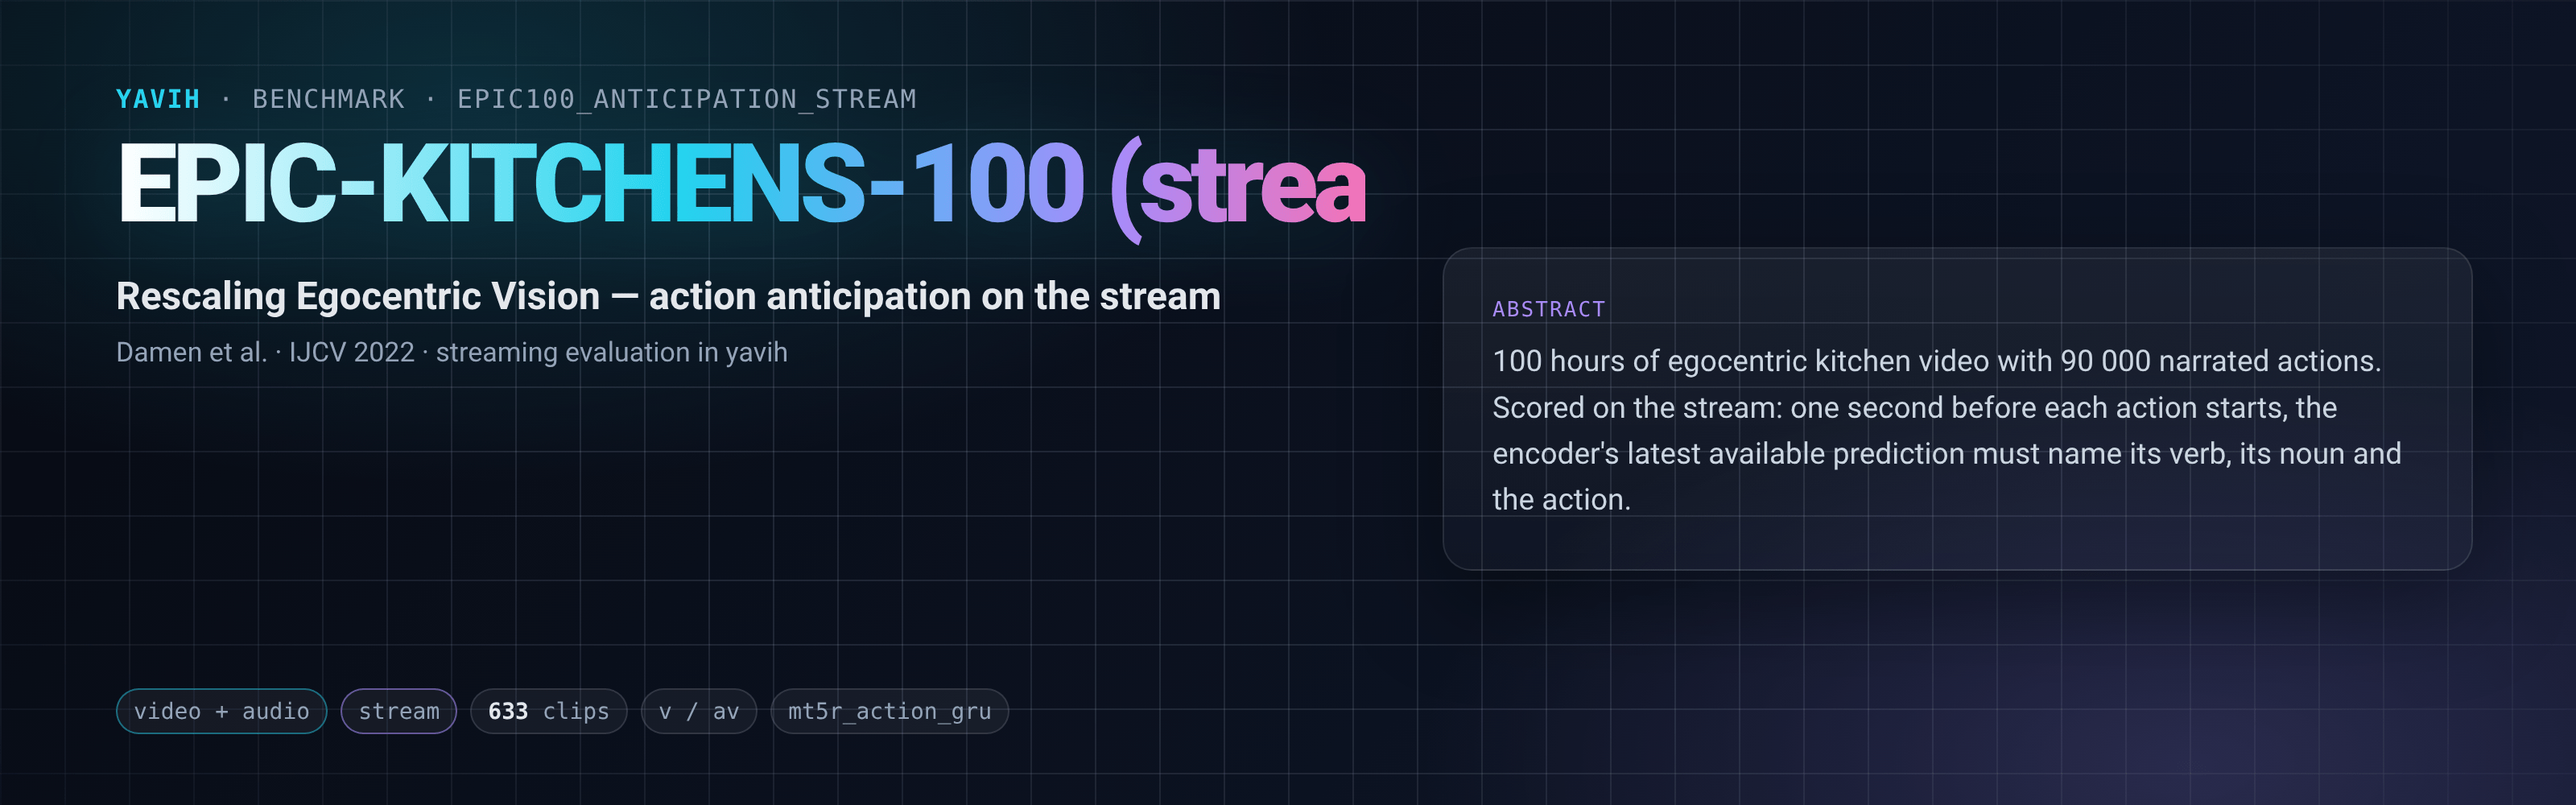
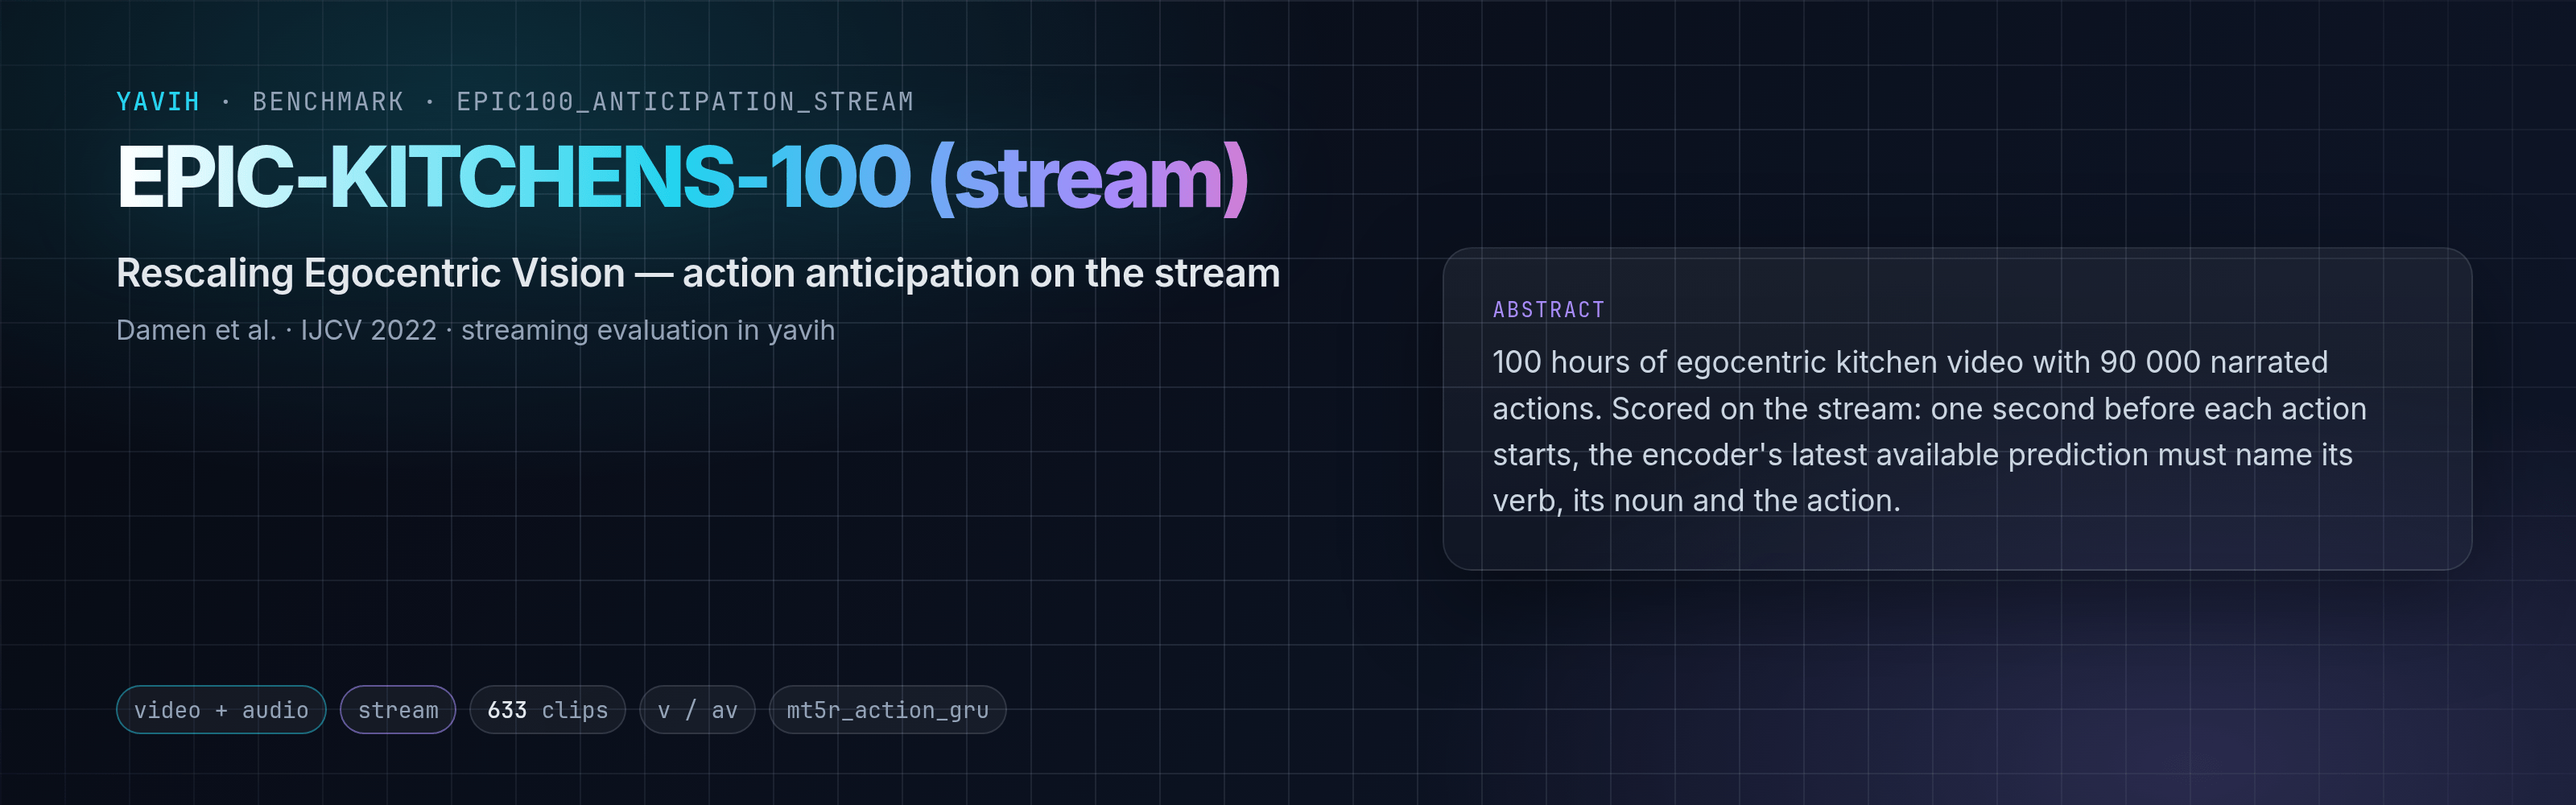
Headers re-rendered with the design system (bundled Inter and JetBrains Mono)
Every folder header and the repository header, rendered once with the design package; a name over 20 characters steps
down to 60 / 52 px so the wider bundled Inter does not clip it (Something-Something v2, EPIC-KITCHENS-100 (stream)).

diff --git a/src/yavih/headers.py b/src/yavih/headers.py
@@ -152,7 +152,7 @@ def header_html(bench) -> str:
         page_css=design.page_css(WIDTH, HEIGHT),
         bench=html.escape(bench.name),
         name=html.escape(h.name),
-        name_px=_size(h.name, ((8, "110px"), (11, "96px"), (14, "82px")), "68px"),
+        name_px=_size(h.name, ((8, "110px"), (11, "96px"), (14, "82px"), (20, "68px"), (24, "60px")), "52px"),
         title=html.escape(h.title),
         title_px=_size(h.title, ((60, "27px"), (90, "24px")), "21px"),
         venue=html.escape(h.venue),
